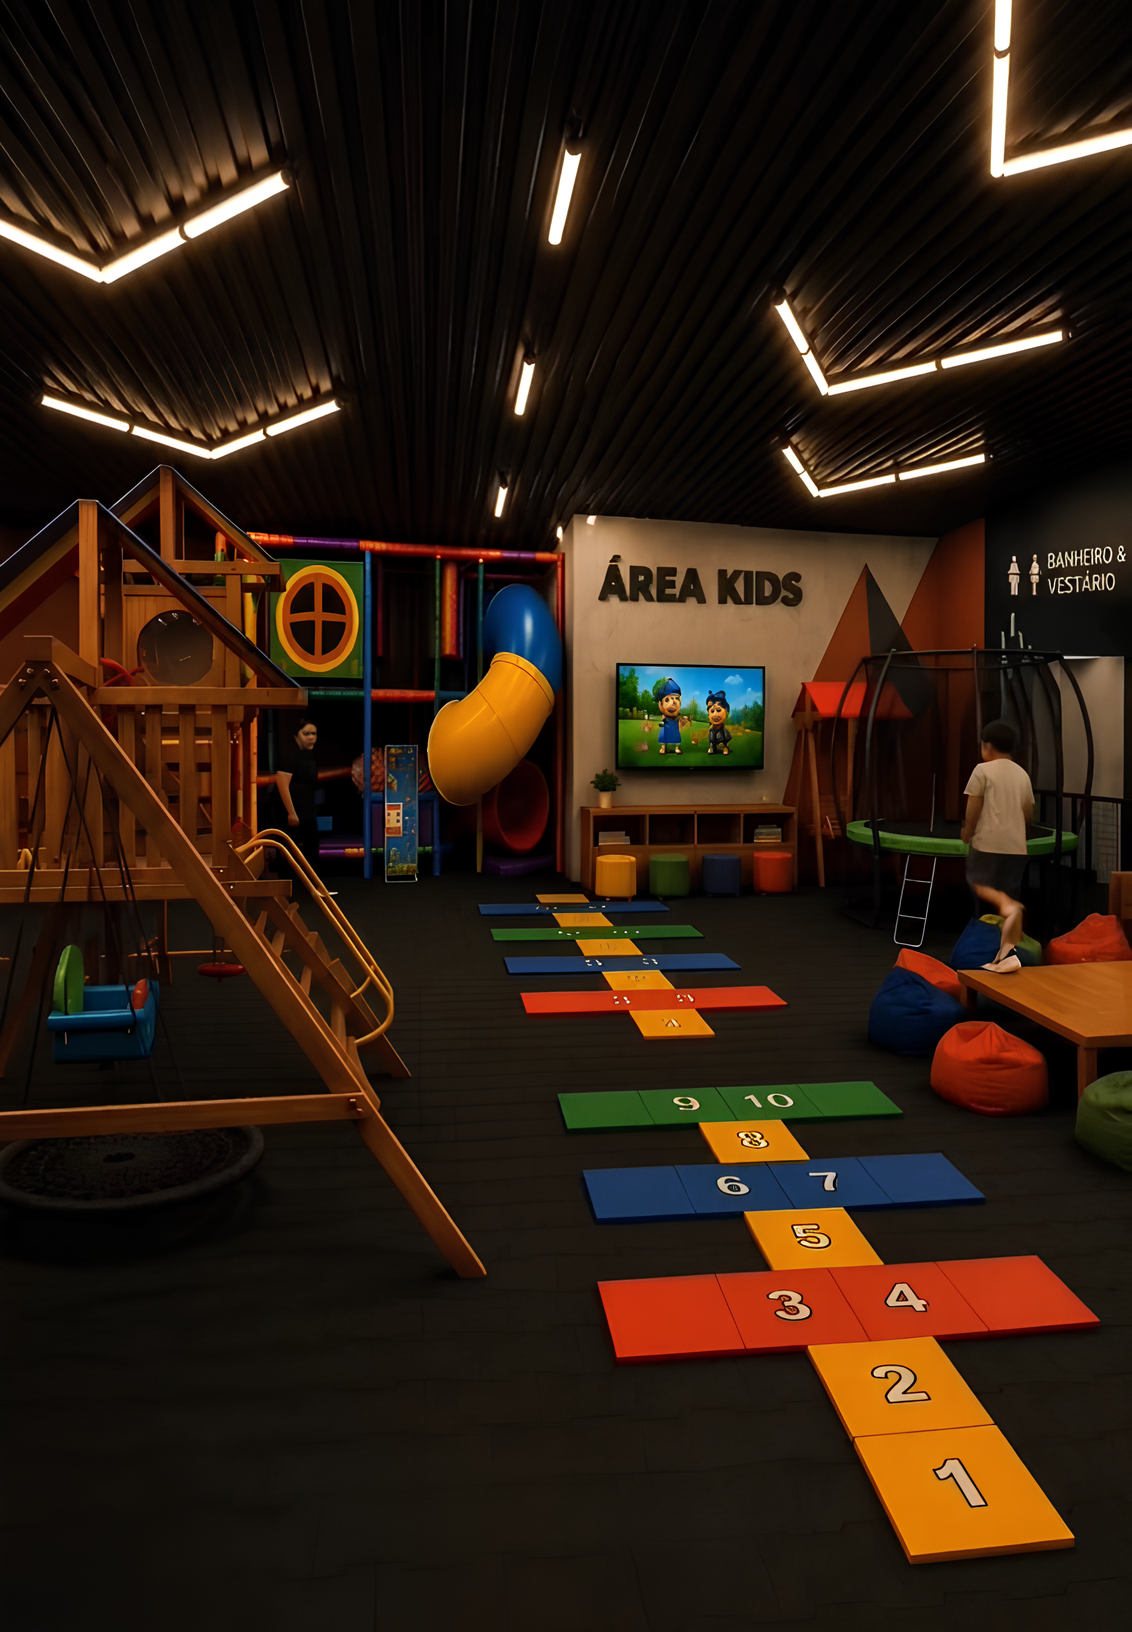
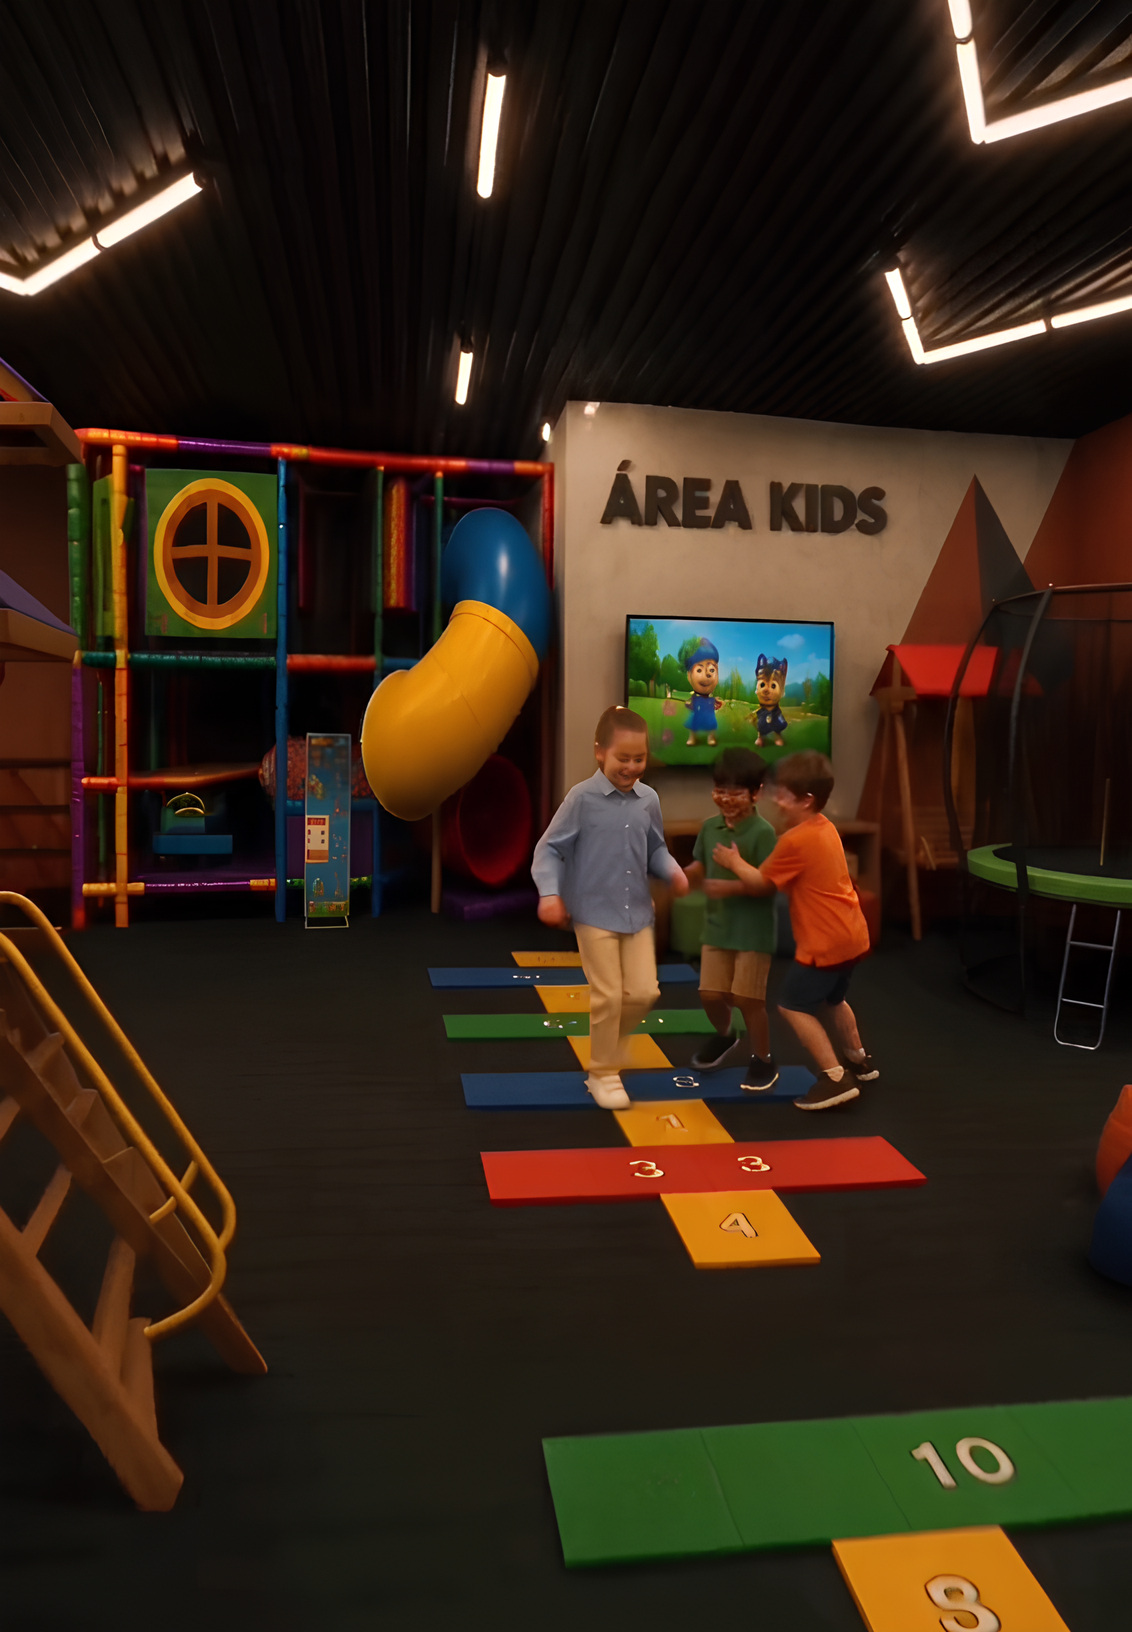
fix: inverter ordem das fotos do espaco kids no carrossel

diff --git a/index.html b/index.html
@@ -306,12 +306,12 @@
             <div class="dual-photo-container">
               <div class="dual-photo-track">
                 <div class="photo-item" title="Clique para ampliar">
-                  <img src="/images/espaco/areakids1.jpeg" alt="Brinquedos lúdicos e piscina de bolinhas na área kids" loading="lazy">
-                  <div class="photo-tag">Brinquedoteca & Lazer</div>
-                </div>
-                <div class="photo-item" title="Clique para ampliar">
                   <img src="/images/espaco/areakids2.png" alt="Espaço seguro e acolhedor para as crianças" loading="lazy">
                   <div class="photo-tag">Segurança Infantil</div>
+                </div>
+                <div class="photo-item" title="Clique para ampliar">
+                  <img src="/images/espaco/areakids1.jpeg" alt="Brinquedos lúdicos e piscina de bolinhas na área kids" loading="lazy">
+                  <div class="photo-tag">Brinquedoteca & Lazer</div>
                 </div>
               </div>
               <div class="carousel-dots" aria-hidden="true">
@@ -443,7 +443,7 @@
         <div class="pricing-comparison-wrapper">
           <!-- Founder Plan Card (Highlighted) -->
           <div class="plan-card founder-card">
-            <div class="founder-ribbon">VAGAS LIMITADAS • 1º LOTE</div>
+            <div class="founder-ribbon">VAGAS LIMITADAS</div>
             <div class="plan-header text-center">
               <span class="plan-type red-text">★ CONDIÇÃO EXCLUSIVA DE MEMBRO FUNDADOR</span>
               <h3 class="plan-name">Plano Pré-Matrícula</h3>
@@ -454,7 +454,7 @@
               <div class="price-flex-row">
                 <div class="price-old-strikethrough">
                   <span class="old-label">De:</span>
-                  <span class="old-value">R$ 189<span class="old-period">/mês</span></span>
+                  <span class="old-value">R$ 229<span class="old-period">/mês</span></span>
                 </div>
                 <div class="price-arrow-divider">➔</div>
                 <div class="price-promo-wrap">
@@ -465,7 +465,7 @@
               <div class="price-lock-tag">🔒 PLANO VITALÍCIO ENQUANTO ATIVO (SEM INATIVIDADE POR 30 DIAS) • MATRÍCULA ISENTA (R$ 0,00)</div>
             </div>
             <ul class="plan-perks">
-              <li class="perk-item"><span class="perk-star">★</span> <div><strong>Taxa de Matrícula R$ 0,00</strong> (Economia imediata de R$ 150)</div></li>
+              <li class="perk-item"><span class="perk-star">★</span> <div><strong>Taxa de Matrícula R$ 0,00</strong></div></li>
               <li class="perk-item"><span class="perk-star">★</span> <div><strong>Passe Livre Total:</strong> Musculação, Treinamento Funcional e Estúdio de Dança</div></li>
               <li class="perk-item"><span class="perk-star">★</span> <div><strong>Plano Vitalício:</strong> R$ 129/mês garantido enquanto sua assinatura permanecer ativa (sem inatividade por 30 dias)</div></li>
               <li class="perk-item"><span class="perk-star">★</span> <div><strong>Acesso Exclusivo 3 Dias Antes:</strong> Soft Opening VIP para os primeiros pioneiros</div></li>
